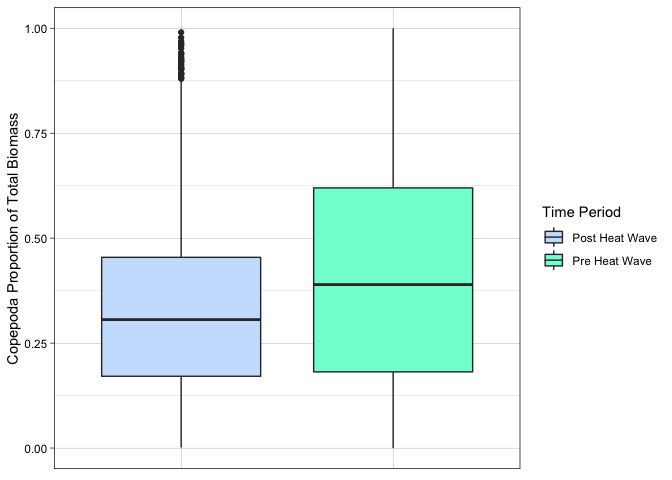
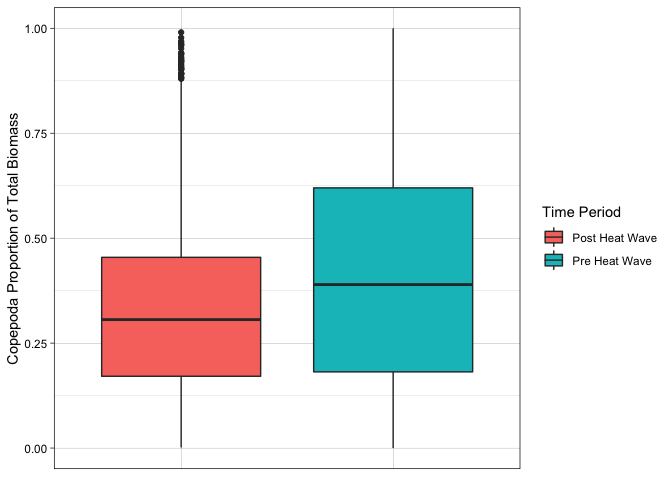
Added examples and made other edits.

Changed region(s): [[0.4688, 0.375, 0.7188, 0.7812], [0.125, 0.5312, 0.4062, 0.7812], [0.8125, 0.4688, 0.8438, 0.5625]]

diff --git a/assignment_1b.md b/assignment_1b.md
@@ -142,7 +142,9 @@ function need not be complicated. The function need not be “serious”,
 but shouldn’t be nonsense.
 
 I want to create a function that compares the proportion of total
-biomass made up by one of the zooplankton taxa pre and post heat wave.
+biomass made up by one of the zooplankton taxa pre and post heat wave. I
+will make this function general so that it can be used to compare any
+numeric variable in each category of any categorical variable.
 
 No NAs in data.
 
@@ -153,23 +155,28 @@ any(is.na(zooplankton_funct))
 
     ## [1] FALSE
 
-``` r
-' @title Boxplot '
-```
-
-    ## [1] " @title Boxplot "
+-   named variable x and y because of what axis, the categorical
+    variable names would be on x axis and numeric variables on y axis
+-   people are used to an x and y variable when creating plots
 
 ``` r
-#create a function called "boxplot_zoop"
-boxplot_zoop <- function (data, x, y) {
-    ggplot(data, aes({{ x }}, {{ y }})) + 
+#' @title Multiple Boxplot for a Numeric Variable across Categories 
+#' @description This function creates a multiple boxplot that shows the distribution of a numeric variable in different categories contained in a categorical variable
+#' @params dataframe The dataframe that contains the variables that you would like to use to create the boxplot
+#' @params x The categorical variable that we want to plot a numerical variable across.
+#' @params y The numeric variable that we want to examine the distribution of across a categorical variable
+#' @return A boxplot showing the distribution of y in each category contained in x
+#' @examples starwars %>% boxplot_numeric_category(species, height, na.rm = TRUE)
+#' 
+#'
+
+#create a function called "boxplot_numeric_category"
+boxplot_numeric_category <- function (dataframe, x, y) {
+    ggplot(dataframe, aes({{ x }}, {{ y }})) + 
   #specify a box plot, set the width of the boxes, and specify the transparency of the box plot
   geom_boxplot(aes(fill= {{ x }})) + 
     #change the theme of the plot
     theme_linedraw() +
-    #change the colours of each box
-    #the below line of code is from STHDA [date unknown]
-    scale_fill_manual(values=c("lightsteelblue1", "aquamarine1", "lightsalmon1")) +
     #remove the x axis ticks and labels
     #below line of code from Elferts 2016
     theme(axis.text.x=element_blank(),
@@ -182,7 +189,7 @@ Now let’s test this function to see if it works by creating a boxplot
 that compares Copepod biomass pre and pst heat wave.
 
 ``` r
-boxplot_zoop(zooplankton_funct, `Time Period`, `Copepoda Proportion of Total Biomass`)
+boxplot_numeric_category(zooplankton_funct, `Time Period`, `Copepoda Proportion of Total Biomass`)
 ```
 
 ![](assignment_1b_files/figure-gfm/unnamed-chunk-7-1.png)<!-- -->
@@ -207,6 +214,9 @@ a character object to a factor.
 #below line of code from Schork [date unknown]
 #zooplankton_biomass_mi3$region_name <- as.factor(zooplankton_biomass_mi3$region_name)
 ```
+
+params na.rm This command can be set equal to (=) TRUE to remove NA
+values or FALSE to leave NA values in.
 
 below line of code from
 <https://stackoverflow.com/questions/49943092/how-to-set-ggplot-x-label-equal-to-variable-name-during-lapply>
